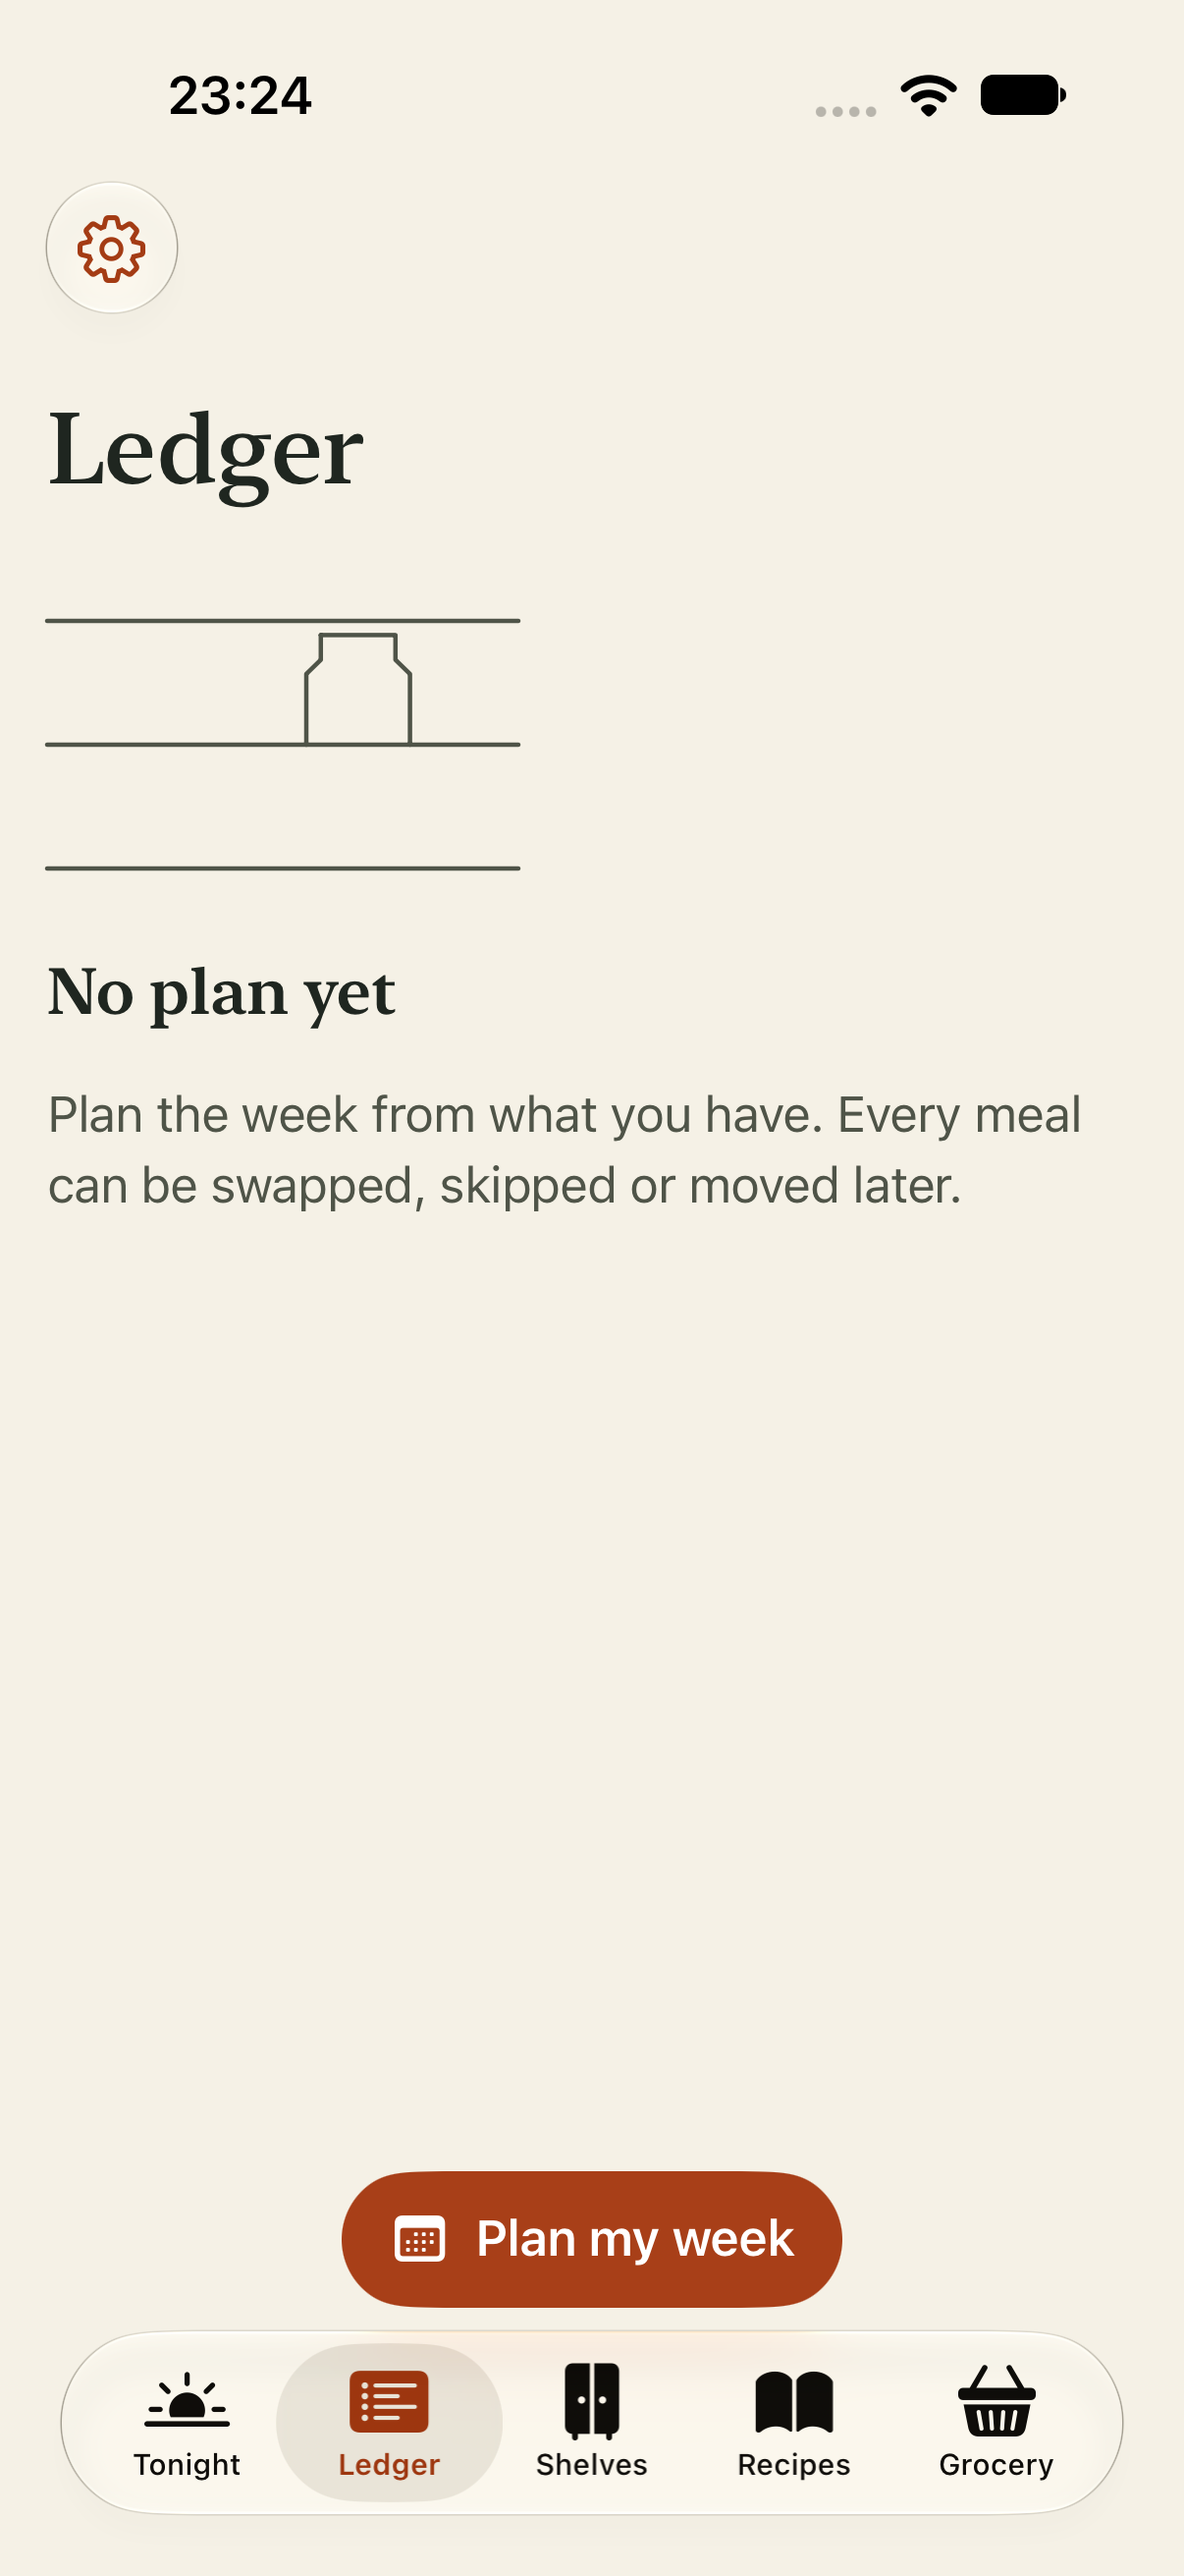
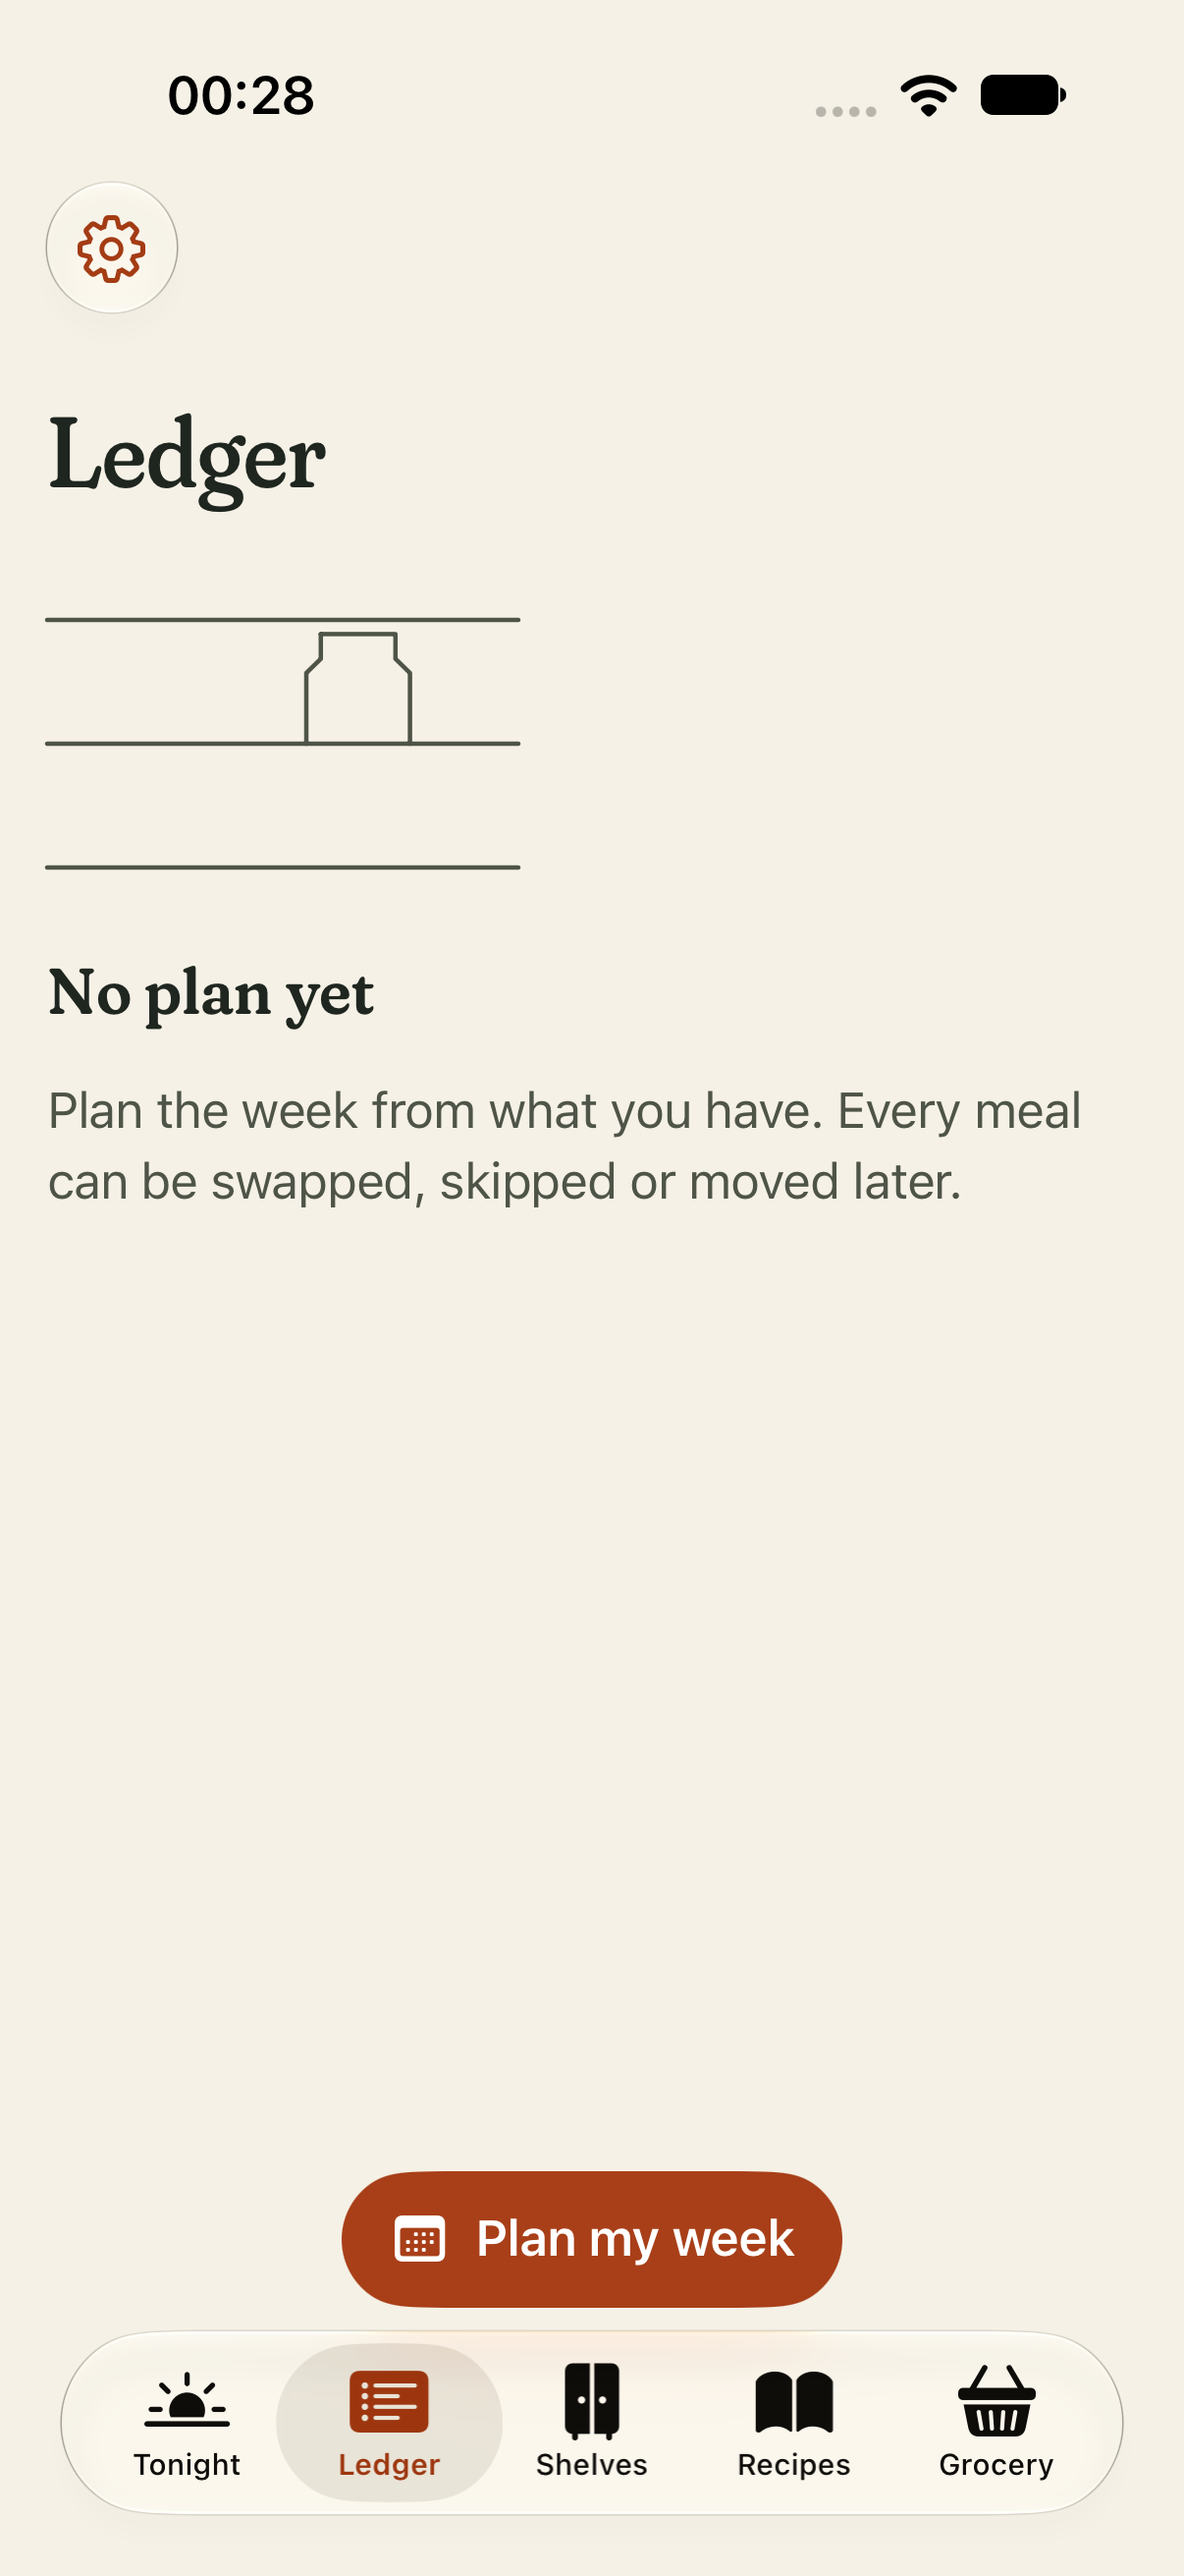
docs: update status, blueprint and screenshots

diff --git a/docs/STATUS.md b/docs/STATUS.md
@@ -1,4 +1,4 @@
-# Larder status, 2026-10-16
+# Larder status, 2026-10-17
 
 What exists, how it was verified, what is still open. Decisions are in `docs/BLUEPRINT.md`; evidence is in `docs/research/`.
 
@@ -9,16 +9,16 @@ What exists, how it was verified, what is still open. Decisions are in `docs/BLU
 | Research | Five reports: users and market, visual identity, accessibility, nutrition and recommendation engine, iOS stack | `docs/research/01..05` |
 | Scaffold | SwiftPM package `LarderKit` with ten targets, XcodeGen project, scripts, domain model, ports | `swift build`, app builds for simulator |
 | Core engine | Units, nutrition calculator, DGA 2025 / WHO targets, shelf balance, two-path allergen engine with lexicon and exceptions, diet and religious filters, grocery list builder, constraint compiler, scorer, Tonight picker, week planner with local search, independent verifier, swap suggester | 221 Swift Testing tests, including zero hard violations over 150 persona-seed cases and a 7-day plan under 0.5 s |
-| Persistence | GRDB SQLite schema, FTS5 search, repositories, idempotent seed loader with slug-derived IDs, erase-all | 55 tests |
-| Assistant client | Proxy client with session caching, PII-free profile summary, prompt sanitiser, deterministic pantry parser, router (on-device, proxy, deterministic, consent-gated) | 78 tests, including proofs that no sensitive field or network call escapes |
+| Persistence | GRDB SQLite schema, FTS5 search, repositories, idempotent seed loader with slug-derived IDs and FDC ids, erase-all | 61 tests |
+| Assistant client | Proxy client with App Attest sessions (attest once, assert after, re-attest on a lost key, dev-secret fallback on the Simulator), session caching, PII-free profile summary, prompt sanitiser, deterministic pantry parser, router (on-device, proxy, deterministic, consent-gated) | 90 tests, including proofs that no sensitive field or network call escapes |
 | On-device AI | Foundation Models backend with @Generable types, context guard, error mapping, Vision receipt and barcode readers | 55 tests; the live Foundation Models test ran on this Mac |
-| Design system | 22 colour tokens light and dark with high-contrast variants, typography (Fraunces or New York fallback, SF Pro, Commit Mono or SF Mono fallback), spacing, radius, motion with Reduce Motion, Copy catalogue, 12 components | 77 tests, including WCAG ratios for every ink/surface pair and a banned-pattern scan |
+| Design system | 22 colour tokens light and dark with high-contrast variants, typography (bundled Fraunces static instances, SF Pro, bundled Commit Mono), spacing, radius, motion with Reduce Motion, one Copy catalogue for every feature string (398 keys), 12 components | 81 tests, including WCAG ratios for every ink/surface pair, a banned-pattern scan, font registration by PostScript name and catalogue coverage of feature strings |
 | Features | Shelves (pantry), Ledger and Tonight, Recipes with import and cooking mode, Grocery, Account with onboarding, StoreKit 2 entitlements, paywall, settings and export | 49 + 68 + 142 + 23 + 85 tests |
 | App | Dependency graph, onboarding gate, five tabs, App Intents and Shortcuts, today widget via App Group snapshot, UI tests with accessibility audits and screenshots | App and widget build warning-free; five UI tests pass (audits on every tab, onboarding, AX3, recipe-to-plan flow, screenshots) |
-| Proxy | Cloudflare Worker in TypeScript with session tokens, App Store JWS entitlement verification, KV quotas, four structured-output routes on Haiku 5.5 and Sonnet 5.5, cache-stable prompts | 107 vitest tests, `tsc` clean |
-| Seed data | 113 foods (approximate values, flagged), 42 original recipes, validator script | `python3 -I Tools/validate-seed.py` |
+| Proxy | Cloudflare Worker in TypeScript with App Attest attestation and assertion verification (stateless challenges, key-derived session subjects), session tokens, App Store JWS entitlement verification, KV quotas, four structured-output routes on Haiku 5.5 and Sonnet 5.5, cache-stable prompts | 165 vitest tests, `tsc` clean |
+| Seed data | 113 foods: 33 from FDC Foundation Foods (2026-04), 77 from SR Legacy (2018-04), 3 approximate and flagged; 42 original recipes; reviewable mapping, importer and validator | `python3 -I Tools/validate-seed.py`; the importer is byte-for-byte reproducible |
 
-Package total: 853 Swift Testing tests across ten targets, all passing on 2026-10-16.
+Package total: 875 Swift Testing tests across ten targets, all passing on 2026-10-17.
 
 ## Commands
 
@@ -29,23 +29,25 @@ Scripts/build-app.sh            # simulator build
 Scripts/test-app.sh             # UI tests with accessibility audits
 Scripts/screenshots.sh          # regenerates docs/screenshots
 cd Server/larder-proxy && npm test && npm run typecheck
+python3 -I Tools/import-fdc.py --foundation <foundation json> --sr-legacy <sr legacy json>   # rewrites seed-foods.json
 ```
+
+The FDC JSON comes from https://fdc.nal.usda.gov/download-datasets (CC0) and is not stored in the repository. Matching rules and one decision per food are in `Tools/fdc-mapping.json`.
 
 ## Open items
 
 Ordered by importance.
 
-1. App Attest verification in the proxy is an interface with a 501 stub; only dev attestation exists. Needed before any real user traffic.
-2. Fonts are not bundled. Drop Fraunces static instances and Commit Mono into `Sources/LarderDesign/Resources/Fonts/` (see its README); until then New York and SF Mono stand in.
-3. Seed nutrient values are approximate and labelled `seedApproximate`. Replace through an FDC import (CC0) before launch; the Food model and seed loader already carry FDC IDs and sources.
+1. App Attest has not run against a genuine Apple attestation. The Simulator has no App Attest, so the verifier is tested with a generated chain of Apple's structure. Before launch: set `APPLE_TEAM_ID` in `wrangler.toml`, run once on a physical device, and keep `ALLOW_DEV_ATTESTATION` off. Fraud-metric receipts are not used.
+2. Three seed foods have no defensible FDC match and stay `seedApproximate`: cream (FDC has no double cream), mixed seeds (no fixed blend) and vinegar (no white wine vinegar). Added sugar is `null` for every food because neither dataset reports it.
+3. `Tools/validate-seed.py` allows FDC foods a 20% energy tolerance (15% for approximate foods), sugar up to 5% above carbohydrate, and no energy check for foods tagged `alcohol`, because FDC's own records need it.
 4. The medical disclaimer, allergen wording and paywall copy need a registered dietitian and counsel review (GDPR Article 9, Washington MHMDA, App Store 1.4.1).
 5. Live camera scanning UI (DataScannerViewController) is not wired; image-based barcode and receipt reading exists.
-6. Feature modules keep some strings in local `String(localized:)` calls instead of the Design catalogue.
-7. The Recipes list uses a card per row; the design brief prefers ledger rows with hairlines.
-8. The App Group container for the widget is unverified without code signing; the widget shows "Nothing planned" when the container is unavailable.
-9. `ParsedPantryLine` has no best-by field, so model-extracted best-by hints are dropped.
-10. The parse-pantry system prompt is under the 512-token caching minimum; it will not cache.
-11. Not run: a real StoreKit sandbox purchase, VoiceOver and Voice Control manual passes, a physical device.
+6. `App/Larder/RootView.swift` and the App Intents (`WhatsForDinnerIntent`, `OpenTonightIntent`, `LarderShortcuts`) still use local strings; App Intents strings probably belong in an app-target catalogue.
+7. The App Group container for the widget is unverified without code signing; the widget shows "Nothing planned" when the container is unavailable.
+8. `ParsedPantryLine` has no best-by field, so model-extracted best-by hints are dropped.
+9. The parse-pantry system prompt is under the 512-token caching minimum; it will not cache.
+10. Not run: a real StoreKit sandbox purchase, VoiceOver and Voice Control manual passes, a physical device.
 
 ## Known audit limitation
 

diff --git a/docs/BLUEPRINT.md b/docs/BLUEPRINT.md
@@ -111,9 +111,9 @@ Larder/
   App/
     Larder/                        app entry, tabs, dependency container, App Intents
     LarderWidgets/                 today widget
-    Resources/                     Assets.xcassets (colour sets), fonts, seed data, Larder.storekit
+    Resources/                     Assets.xcassets (colour sets), seed data, Larder.storekit (fonts live in Sources/LarderDesign/Resources/Fonts)
   Server/larder-proxy/             Cloudflare Worker (TypeScript)
-  Tools/                           fdc-import, recipe validator CLI
+  Tools/                           import-fdc.py + fdc-mapping.json, validate-seed.py, name-fraunces-statics.py
   Scripts/                         test-packages.sh, generate.sh, lint.sh
   docs/
 ```

diff --git a/README.md b/README.md
@@ -49,3 +49,9 @@ UI tests launch the app with `-LarderUITestMode`: an in-memory store with the se
 | `docs/screenshots/` | Screenshots from `Scripts/screenshots.sh` |
 | `docs/BLUEPRINT.md` | Every architectural decision; read this first |
 | `docs/research/` | The research reports behind the blueprint |
+| `Tools/` | Seed validator, FDC importer and its mapping, font naming helper |
+
+## Data and font credits
+
+- Nutrient data: USDA FoodData Central, Foundation Foods (April 2026) and SR Legacy (April 2018), public domain (CC0).
+- Fraunces (Undercase Type) and Commit Mono (Eigil Nikolajsen), SIL Open Font License 1.1; licences sit next to the fonts in `Sources/LarderDesign/Resources/Fonts/`.
